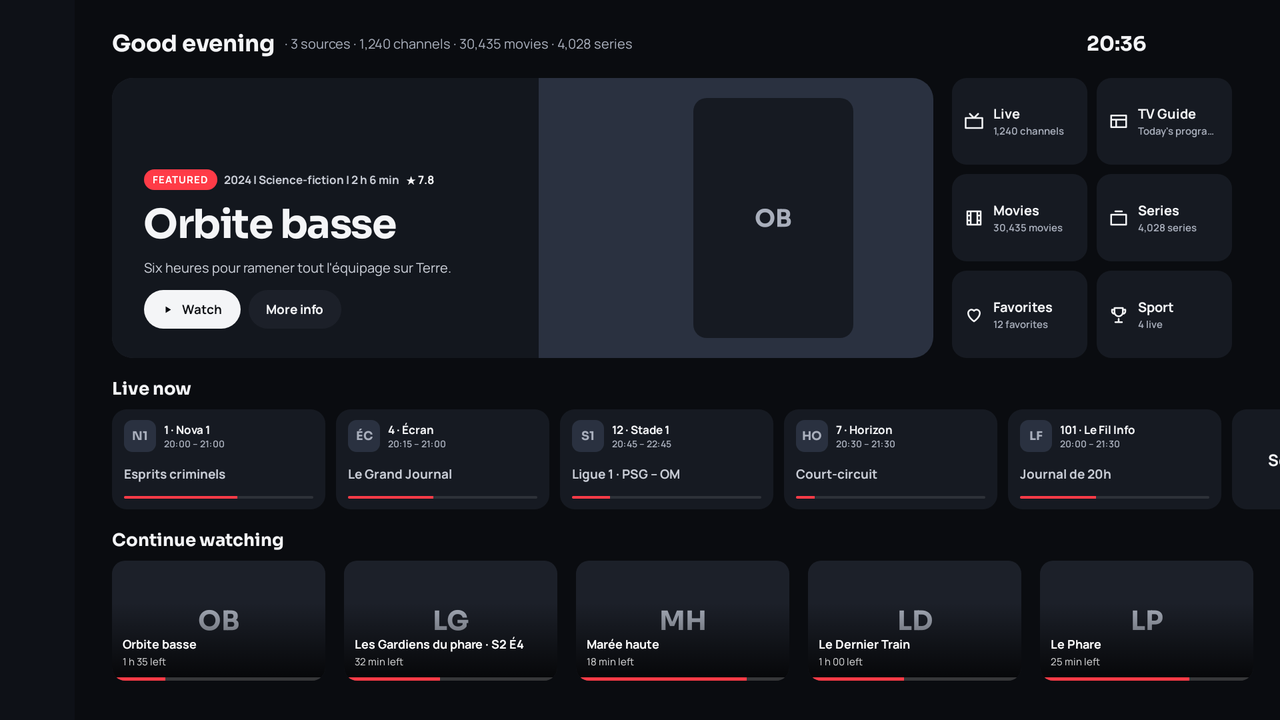
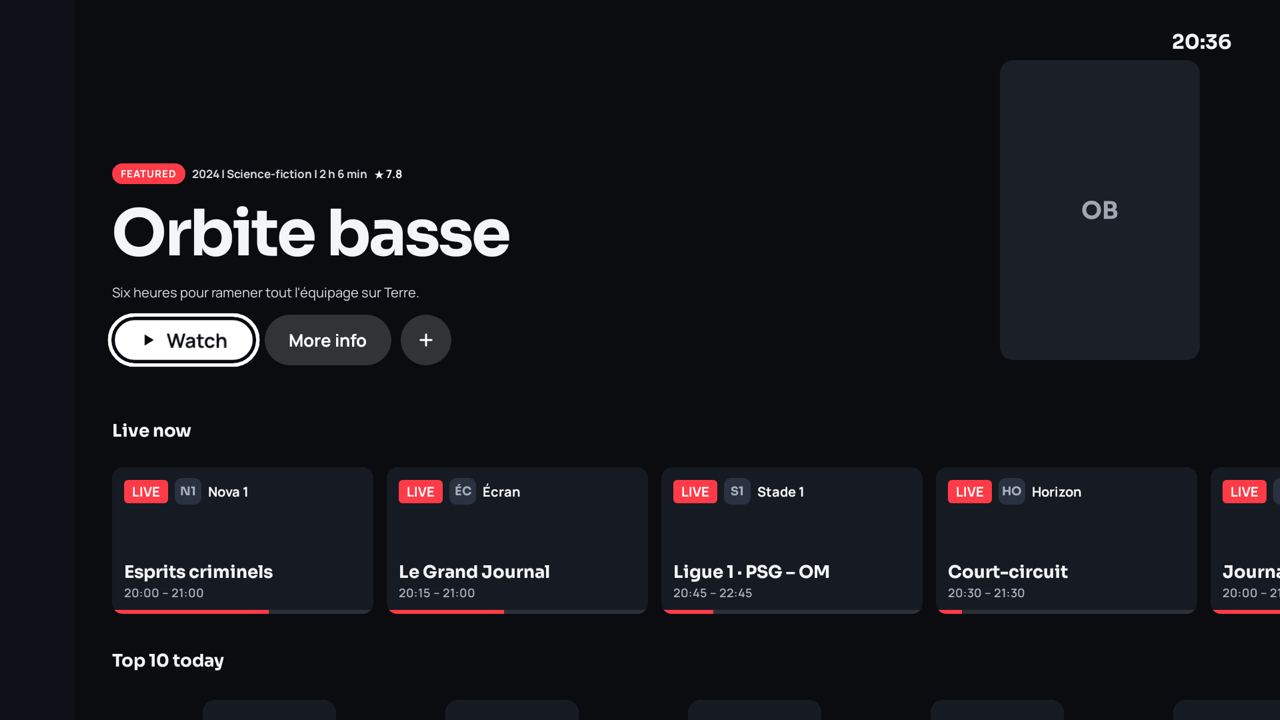
Accueil TV : journal des modifications, descriptions du README et captures

diff --git a/android-native/app/src/test/kotlin/com/ultratv/tv/nativeapp/ui/home/HomeRenderTest.kt b/android-native/app/src/test/kotlin/com/ultratv/tv/nativeapp/ui/home/HomeRenderTest.kt
@@ -36,6 +36,8 @@ import com.ultratv.tv.nativeapp.i18n.LocalDs
 import com.ultratv.tv.nativeapp.i18n.LocalStrings
 import com.ultratv.tv.nativeapp.i18n.designStringsFor
 import com.ultratv.tv.nativeapp.i18n.stringsFor
+import com.ultratv.tv.nativeapp.ui.common.EpgClock
+import com.ultratv.tv.nativeapp.ui.common.TimeFormatPref
 import com.ultratv.tv.nativeapp.ui.common.design
 import com.ultratv.tv.nativeapp.ui.components.RAIL_COLLAPSED_PX
 import com.ultratv.tv.nativeapp.ui.design.Ux
@@ -69,10 +71,19 @@ class HomeRenderTest {
 
     private val outDir = File("build/outputs/ui-v2").also { it.mkdirs() }
 
-    /** Le thème est un état global : toujours remis au sombre, même si un rendu échoue. */
-    @Before fun fakeImages() { installFakeImageLoader() }
+    private var savedTimeFormat = ""
 
-    @After fun resetTheme() { Ux.themeLight = false; Ux.themeOled = false; Ux.themeKind = AppTheme.DARK; resetImageLoader() }
+    /** Heure en 24 h (état global de l'horloge, qu'un autre test peut avoir laissé en 12 h) : les captures du README montrent « 20:36 ». */
+    @Before fun fakeImages() {
+        installFakeImageLoader()
+        savedTimeFormat = EpgClock.timeFormat
+        EpgClock.timeFormat = TimeFormatPref.H24.key
+    }
+
+    /** Le thème est un état global : toujours remis au sombre, même si un rendu échoue. */
+    @After fun resetTheme() {
+        EpgClock.timeFormat = savedTimeFormat
+        Ux.themeLight = false; Ux.themeOled = false; Ux.themeKind = AppTheme.DARK; resetImageLoader() }
 
     private fun channel(id: Long, num: Int, name: String) =
         ChannelEntity(id = id, providerId = 1, remoteId = "$id", name = name, logo = null, categoryId = null, streamUrl = "u", num = num)

diff --git a/README.fr.md b/README.fr.md
@@ -74,7 +74,7 @@ Captures aussi disponibles en anglais ([`docs/screenshots/en`](docs/screenshots/
 
 ## Fonctionnalités
 
-- **Nouvelle interface (1.2.98)** sur TV, téléphone, tablette et bureau : thèmes sombre et clair redessinés, accueil avec « À la une » et raccourcis, surcouche du Direct (chaînes récentes, programme en cours, « Ensuite », ruban de la soirée), liste des chaînes en feuille latérale, guide filtrable par catégorie, fiches et lecteurs films / séries refaits, courte animation d'ouverture.
+- **Nouvelle interface (1.2.98)** sur TV, téléphone, tablette et bureau : thèmes sombre et clair redessinés, accueil avec une image « À la une » pleine largeur, les chaînes en direct en larges cartes et un Top 10 (raccourcis en option), surcouche du Direct (chaînes récentes, programme en cours, « Ensuite », ruban de la soirée), liste des chaînes en feuille latérale, guide filtrable par catégorie, fiches et lecteurs films / séries refaits, courte animation d'ouverture.
 - **Sport** (rubrique facultative, Réglages › Affichage, sur TV et bureau) : un écran unifié avec les **matchs en direct** (score et chaînes qui les diffusent), les **matchs à venir** et les émissions sportives du guide de vos sources, et le **classement** de la ligue choisie. **Feuille de match**, classement complet (forme, zones), **« Mes ligues »** (ordre, masquer) et **mode sans spoiler**. Rappels, enregistrements et **écussons des équipes**. Les scores viennent de plusieurs fournisseurs gratuits combinés ([football-data.org](https://www.football-data.org), [API-Football](https://www.api-football.com), [Jolpica](https://github.com/jolpica/jolpica-f1) pour la F1 et [TheSportsDB](https://www.thesportsdb.com)) ; le Worker les interroge, l'appareil n'envoie qu'une clé de ligue ou un numéro de match.
 - **Bibliothèques personnelles** (Android TV et bureau) : vos propres films et séries depuis un serveur **Jellyfin**, **Emby** ou **Plex** (liaison par code sur plex.tv/link), ou depuis un **partage NAS** (SMB sur Android ; sur le bureau, un dossier déjà monté par le système). Assistant en 3 étapes (trouver le serveur, se connecter, choisir les bibliothèques) avec **découverte automatique des serveurs** du réseau local. Écran **« Mes bibliothèques »** (état de chaque serveur, affiches avec progression, vue par dossiers pour le NAS) et **points de reprise synchronisés avec le serveur**. Sur Android TV : Réglages › Sources › Ajouter une source › « Ma bibliothèque » ; « Mes bibliothèques » apparaît ensuite en haut de Réglages › Sources.
 - **Recherche** depuis n'importe quel écran : bouton en haut du menu latéral, touches Recherche et micro de la télécommande.
@@ -85,7 +85,7 @@ Captures aussi disponibles en anglais ([`docs/screenshots/en`](docs/screenshots/
 - **Films et séries** : fiches enrichies via **TMDB** (affiche, synopsis, distribution, bande-annonce, en anglais si aucune n'existe dans votre langue), **logo officiel du titre et fond HD** via [Fanart.tv](https://fanart.tv), **prochain épisode** d'une série (date, titre) via [TVmaze](https://www.tvmaze.com), **reprise automatique** (position enregistrée toutes les 30 s), saisons en onglets, rangées par catégorie.
 - **Passer l'intro** : boutons « Passer l'intro », « Passer le résumé » et « Épisode suivant » pendant les génériques, d'après [TheIntroDB](https://theintrodb.org) (base communautaire, sans clé).
 - **Notes IMDb / Rotten Tomatoes** sur les fiches (OMDb via le Worker), **pages acteurs et réalisateurs** (leurs titres présents dans la playlist).
-- **Accueil** : « À la une » qui défile, rangée **« Nouveaux épisodes »** (séries favorites ou en cours dont un épisode est sorti ou sort dans les 7 jours), rangées « Parce que vous avez regardé… », « Films / Séries les mieux notés » ; **filtres** Films / Séries (tri, note minimale, période) ; **recherche tolérante aux fautes**.
+- **Accueil** : image « À la une » pleine largeur avec Regarder / Plus d'infos / Ma liste (elle défile, fixe sur les appareils modestes), chaînes en direct en larges cartes, Top 10 en grands chiffres, rangée **« Nouveaux épisodes »** (séries favorites ou en cours dont un épisode est sorti ou sort dans les 7 jours), rangées « Parce que vous avez regardé… », « Films / Séries les mieux notés » ; **filtres** Films / Séries (tri, note minimale, période) ; **recherche tolérante aux fautes**.
 - **Guide personnalisé** : une **adresse de guide XMLTV** (`http://` ou `https://`, finissant par `.xml` ou `.xml.gz`, query string tolérée). Deux usages. (1) **Guide complémentaire** : Réglages › Synchronisation › Guide complémentaire › *Adresse personnalisée…* (lu seulement pour les chaînes restées sans programme). (2) **Guide de cette source** : Réglages › Sources › (menu de la source) › *Guide de cette source*, avec le mode **remplacer** (seule cette adresse est lue) ou **compléter** (guide du fournisseur d'abord, puis cette adresse pour les chaînes sans programme) ; utile pour une playlist M3U sans `url-tvg` et pour un portail Stalker, qui n'a pas de guide XMLTV propre (chaînes rattachées par `epgChannelId`, sinon par nom). L'adresse est **vérifiée avant l'enregistrement** (requête réseau, gzip détecté, balise `<tv` obligatoire ; message clair si injoignable, code HTTP ou pas un guide XMLTV). Saisie à la télécommande, depuis le téléphone (page `/envoyer`, type *Guide XMLTV*, pour le guide complémentaire) ou sur le bureau (Réglages › Synchronisation, et *Options avancées* d'une source).
 - **Synchronisés entre appareils** (compte cloud) : profils (nom, couleur ou avatar, profil Enfants, langue de l'interface, horaires et limite de temps d'écran ; le code PIN et le temps déjà regardé restent sur chaque appareil), catégories visibles par profil et leur ordre, ordre des chaînes, chaînes masquées, favoris, historique et reprises. Les changements venus des autres appareils sont vérifiés toutes les 2 min appli ouverte, et aussitôt au changement de profil.
 - **Envoi depuis le téléphone, sans compte** : la TV affiche un QR code et un code ; la playlist (Xtream, M3U ou Stalker) se saisit sur le téléphone ou l'ordinateur (page `/envoyer` du Worker), puis la TV l'ajoute et la synchronise. Plus besoin de tout taper à la télécommande.

diff --git a/README.md b/README.md
@@ -72,7 +72,7 @@ The same screenshots exist in French ([`docs/screenshots/fr`](docs/screenshots/f
 
 ## Features
 
-- **New interface (1.2.98)** on TV, phone, tablet and desktop: redesigned dark and light themes, home screen with “Featured” and shortcuts, live TV overlay (recent channels, current programme, “Up next”, evening ribbon), channel list as a side sheet, TV guide filtered by category, redesigned movie / series pages and players, short opening animation.
+- **New interface (1.2.98)** on TV, phone, tablet and desktop: redesigned dark and light themes, home screen with a full-width “Featured” image, live channels as wide cards and a Top 10 (shortcuts optional), live TV overlay (recent channels, current programme, “Up next”, evening ribbon), channel list as a side sheet, TV guide filtered by category, redesigned movie / series pages and players, short opening animation.
 - **Sport** (optional section, Settings › Display, on TV and desktop): one unified screen with **live matches** (score and the channels showing them), **upcoming matches** and sports programmes from your sources' guide, and the **standings** of the chosen league. **Match sheet**, full standings (form, zones), **“My leagues”** (order, hide) and a **no-spoiler mode**. Reminders, recordings and **team badges**. Scores come from several free providers combined ([football-data.org](https://www.football-data.org), [API-Football](https://www.api-football.com), [Jolpica](https://github.com/jolpica/jolpica-f1) for F1 and [TheSportsDB](https://www.thesportsdb.com)); the Worker queries them, the device only sends a league key or a match number.
 - **Personal libraries** (Android TV and desktop): your own movies and series from a **Jellyfin**, **Emby** or **Plex** server (linking by code at plex.tv/link), or from a **NAS share** (SMB on Android; on desktop, a folder already mounted by the system). 3-step wizard (find the server, sign in, choose libraries) with **automatic discovery of servers** on the local network. **“My libraries”** screen (status of each server, posters with progress, folder view for the NAS) and **resume points synced with the server**. On Android TV: Settings › Sources › Add a source › “My library”; “My libraries” then appears at the top of Settings › Sources.
 - **Search** from any screen: a button at the top of the side rail, plus the remote's Search and microphone keys.
@@ -83,7 +83,7 @@ The same screenshots exist in French ([`docs/screenshots/fr`](docs/screenshots/f
 - **Movies and series**: rich details through **TMDB** (poster, plot, cast, trailer, in English when none exists in your language), **official title logo and HD backdrop** through [Fanart.tv](https://fanart.tv), a series' **next episode** (date, title) through [TVmaze](https://www.tvmaze.com), **automatic resume** (position saved every 30 s), seasons as tabs, rows by category.
 - **Skip intro**: “Skip intro”, “Skip recap” and “Next episode” buttons during intros and credits, from [TheIntroDB](https://theintrodb.org) (community database, no key).
 - **IMDb / Rotten Tomatoes ratings** on detail pages (OMDb through the Worker), **actor and director pages** (their titles found in your playlist).
-- **Home**: rotating “Featured” banner, a **“New episodes”** row (favourite or in-progress series with an episode out or due within 7 days), “Because you watched…” and “Top rated movies / series” rows; movie and series **filters** (sort, minimum rating, decade); **typo-tolerant search** (“brekin bad” → Breaking Bad).
+- **Home**: full-width “Featured” image with Watch / More info / My list (rotating, fixed on modest devices), live channels as wide cards, a Top 10 with large numerals, a **“New episodes”** row (favourite or in-progress series with an episode out or due within 7 days), “Because you watched…” and “Top rated movies / series” rows; movie and series **filters** (sort, minimum rating, decade); **typo-tolerant search** (“brekin bad” → Breaking Bad).
 - **Custom guide**: an **XMLTV guide address** (`http://` or `https://`, ending in `.xml` or `.xml.gz`, a query string is fine). Two uses. (1) **Additional guide**: Settings › Synchronization › Additional guide › *Custom address…* (read only for channels still without a programme). (2) **Guide of this source**: Settings › Sources › (the source's menu) › *Guide of this source*, in **replace** mode (only this address is read) or **complete** mode (the provider's guide first, then this address for channels without a programme); handy for an M3U playlist without `url-tvg` and for a Stalker portal, which has no XMLTV guide of its own (channels matched by `epgChannelId`, otherwise by name). The address is **checked before it is saved** (network request, gzip detected, a `<tv` tag is required; clear message if unreachable, HTTP code or not an XMLTV guide). Enter it with the remote, from your phone (the `/envoyer` page, *XMLTV guide* type, for the additional guide) or on desktop (Settings › Synchronization, and a source's *Advanced options*).
 - **Synced across devices** (cloud account): profiles (name, colour or avatar, kids profile, interface language; the PIN stays on each device), categories visible per profile and their order, channel order, hidden channels, favourites, history and resume points. Changes coming from other devices are checked every 2 min while the app is open, and right away when you switch profile.
 - **Send from your phone, no account**: the TV shows a QR code and a code; type the playlist (Xtream, M3U or Stalker) on your phone or computer (the Worker's `/envoyer` page) and the TV adds and syncs it. No more typing with the remote.

diff --git a/CHANGELOG.md b/CHANGELOG.md
@@ -4,6 +4,15 @@ Format inspiré de [Keep a Changelog](https://keepachangelog.com/fr/1.1.0/). Ver
 
 ## [Non publié]
 
+### Modifié
+- Accueil TV : le titre « À la une » devient une grande image sur toute la largeur, avec « Regarder », « Plus d'infos » et « Ma liste » posés dessus. La rangée « En direct » passe en larges cartes (chaîne, programme en cours, horaire, progression) et le Top 10 s'affiche avec un grand chiffre derrière chaque affiche. Les raccourcis (Direct, Films, Séries…) sont masqués par défaut sur TV ; ils restent disponibles dans Réglages › Accueil, et vos choix déjà faits sont conservés.
+- Accueil TV, télécommande : chaque rangée se souvient de la carte quittée, et en revenant d'une fiche on retrouve la même carte. ◀ au début d'une rangée ouvre le menu latéral au lieu de sauter vers une autre rangée. La carte focalisée n'est plus jamais rognée au bord de l'écran. Si la carte quittée a disparu pendant l'absence, le focus se pose aussitôt ailleurs au lieu de laisser l'écran sans sélection pendant une seconde.
+- Appareils modestes : l'image « À la une » reste fixe, sans rotation.
+- Catalogue (téléphone et tablette avec clavier ou manette) : la pastille de filtre focalisée n'est plus collée au bord de l'écran. Ce changement concerne le catalogue, pas l'accueil.
+
+### Corrigé
+- Arabe : les rangées de l'accueil et du catalogue ne sont plus rognées au bord de départ.
+
 ## [1.3.72] — 2026-11-21 (Android)
 
 ### Modifié
